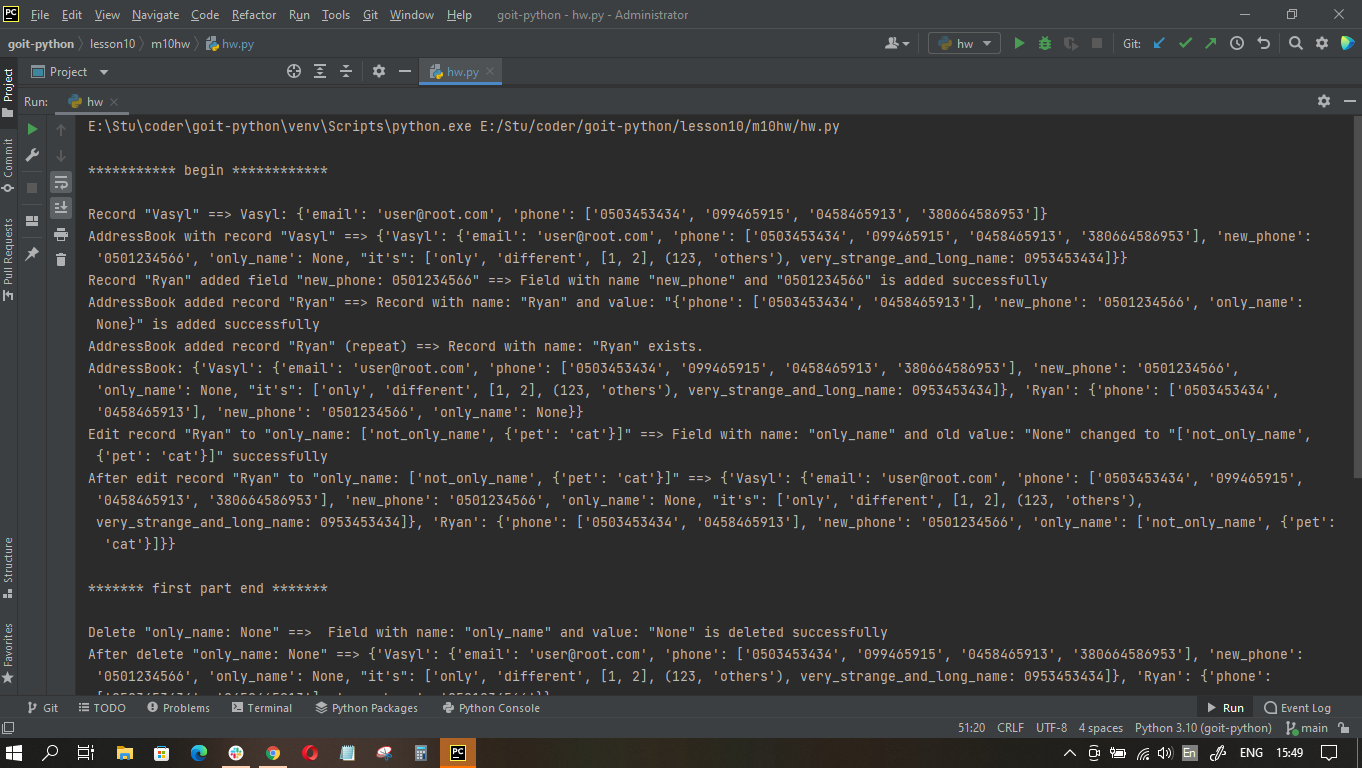
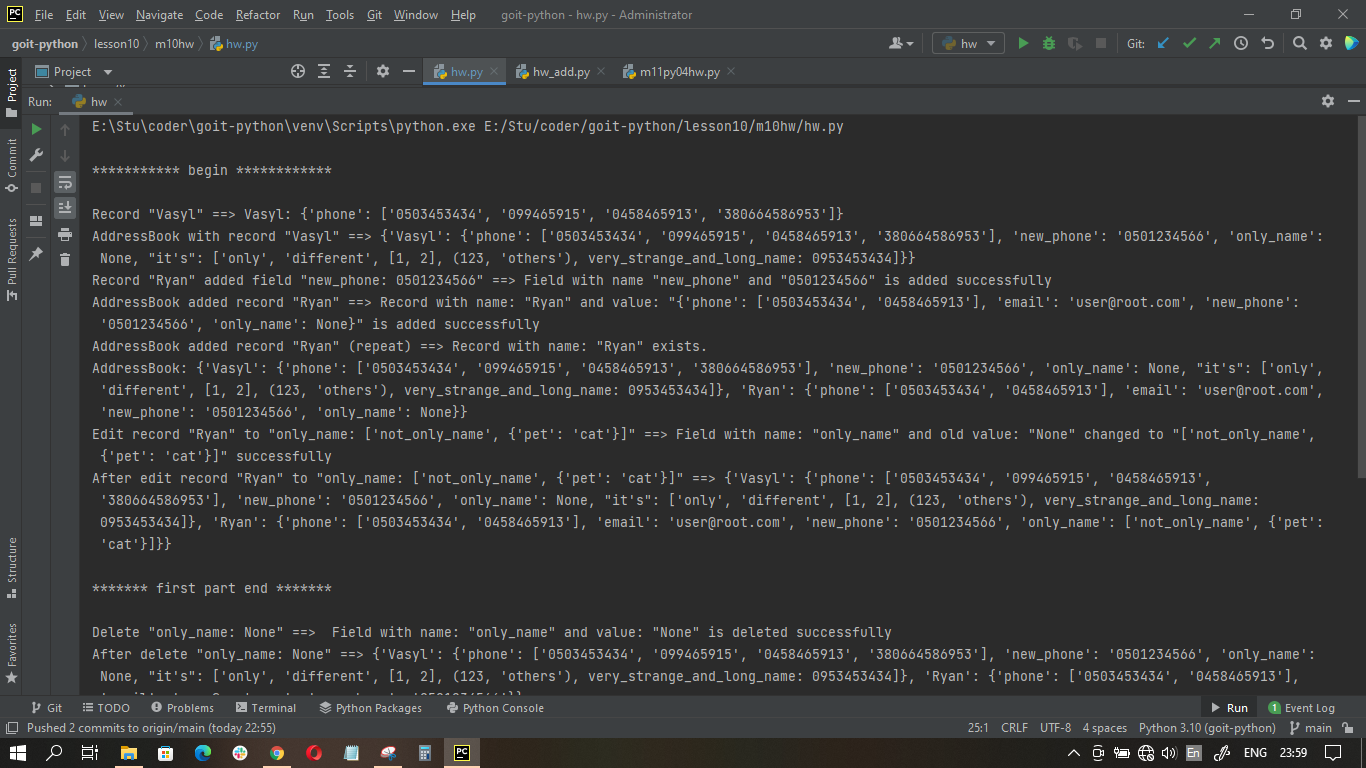
Home Work 10: simplify the script

diff --git a/lesson10/m10hw/hw.py b/lesson10/m10hw/hw.py
@@ -39,21 +39,14 @@ class Phone(Field):
 
 
 class Record:
-    def __init__(self, name: Name, phone=None, **kwargs):
+    def __init__(self, name: Name, phone=None):
         self.name = name
         self.value = None
         self.data = {}
 
-        if phone and kwargs:
-            self.value = kwargs
-            self.value[phone.name] = phone.value
-
-        elif phone:
+        if phone:
             self.value = {}
             self.value[phone.name] = phone.value
-
-        elif kwargs:
-            self.value = kwargs
 
         self.data[self.name.value] = self.value
         self.record_name = self.data[self.name.value]
@@ -112,11 +105,15 @@ def main():
     ph2 = Phone('0503453434',
                 '0458465913')
     ph_error = Phone('0335005050', name='error')
+    ph_email = Phone('user@root.com', name='email')
     ph3 = Phone('0953453434', name='very_strange_and_long_name')
     f3 = Field("it\'s", 'only', 'different', [1, 2], (123, 'others'), ph3)
-    r = Record(n1, ph1, email='user@root.com')
+    r = Record(n1, ph1)
     r2 = Record(n2, ph2)
+    r2.add_field(ph_email)
+
     print('\n{:*^30}\n'.format(' begin '))
+
     print(f'Record \"{r.name.value}\" ==> {r}')
     a.add_record(r)
     r.add_field(f)
@@ -136,7 +133,9 @@ def main():
           f'to \"{new_f2}\" ==> {r2.edit_field(new_f2)}')
     print(f'After edit record \"{r2.name.value}\" '
           f'to \"{new_f2}\" ==> {a}')
+
     print('\n{:*^30}\n'.format(' first part end '))
+
     print(f'Delete \"{f2}\" ==>  {r2.delete_field(f2)}')
     print(f'After delete \"{f2}\" ==> {a}')
     print(f'Edit record \"{r.name.value}\" to '
@@ -148,6 +147,7 @@ def main():
     print(f'Delete with error in \"{r.name.value}\" '
           f'field \"{ph_error}\" ==> {r.delete_field(ph_error)}')
     print(f'After delete \"{new_f3_empty}\" ==> {a}')
+
     print('\n{:*^30}\n'.format(' last part end '))
 
 
